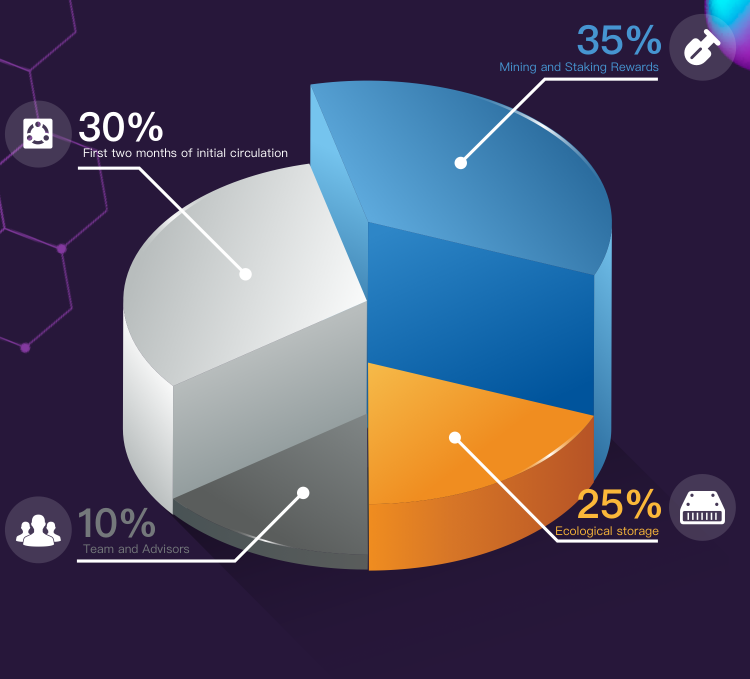
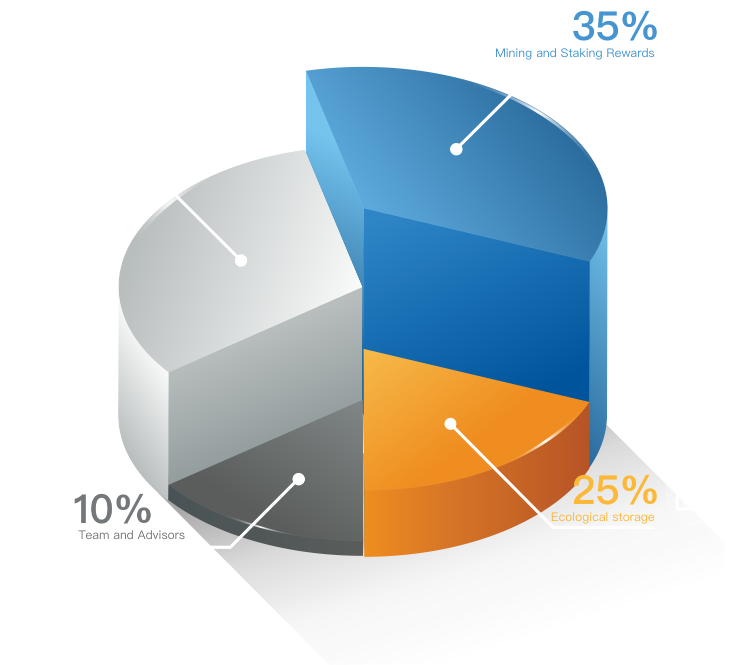
提交

diff --git a/src/view/Home.vue b/src/view/Home.vue
@@ -8,8 +8,8 @@
               <div class="title">Artificial Intelligence for <br>Cryptocurrencies</div>
               <div class="subTitle">FUTURE TECHNOLOGY</div>
               <div class="text">
-                zkGPT is an artificial intelligence encryption analysis robot based on cryptocurrency. It will first play a role by understanding the user's situation, and tailor the investment portfolio for 
-                the user through risk preferences and investment goals, providing users with the ultimate experience.
+                zkGPT is an artificial intelligence encryption analysis robot based on cryptocurrency. It will first play a role by understanding the user's situation, and tailor the investment portfolio for the user through risk 
+                preferences and investment goals, providing users with the ultimate experience.
               </div>
               <div class="FriendlyLinks">
                   <a href="">
@@ -28,8 +28,8 @@
           </div>
           <div class="secondScreen">
               <div class="title" style="margin-bottom: 20px;">
-                  ZKGPT is a revolutionary product <br>
-                  and technology
+                  ZKGPT is a revolutionary <br>
+                  product and technology
               </div>
               <div class="text">
                   ·Personalized experience<br/>
@@ -43,28 +43,31 @@
               Distribute
           </div>
           <div class="CenterSubTitle">
-              XX allocation model
+            CRB allocation model
           </div>
           <div class="CenterText">
-              The initial circulating supply of XX (accounting for 30% of the overall token supply) is fully distributed to the community through the seed pool in the first 6 days, achieving 100% of the initial
-               circulating supply. After 6 days, there will be no release of XX for at least 2 months, and no other form of token sale.
+            The initial circulating supply of XX (accounting for 30% of the overall token supply) is fully distributed to the community through the seed pool in the first 6 days, achieving 100% of the initial circulating supply. After 6 days, 
+            there will be no release of CRB for at least 2 months, and no other form of token sale.
+          </div>
+          <div class="CenterSubTitle pieSubTitle">
+            The specific distribution of CRB
           </div>
           <div class="pie">
              <img src="../assets/Home/Pie.png" alt="">
           </div>
           <div class="CenterSubTitle">
-              YY allocation model
+            CZZ allocation model
           </div>
           <div class="CenterText">
-              As a governance token, YY is mainly obtained through liquidity mining.
-              100% of the total supply (18,000 coins) will be distributed through liquidity mining within three months. Liquidity mining reward: 18000 (100% of total supply)
+            As a governance token, CZZ is mainly obtained through liquidity mining.
+            100% of the total supply (18,000 coins) will be distributed through liquidity mining within three months. Liquidity mining reward: 18000 (100% of total supply)
           </div>
           <div class="Disclaimer">
             Disclaimer
           </div>
           <div class="DisclaimerText">
-            This document is for general information purposes only. It does not constitute investment advice, recommendation or inducement to buy or sell any investment object.
-         It should not be used to evaluate any investment decisions, nor should it be construed as accounting, legal, tax or other investment advice.
+            This document is for general information purposes only. It does not constitute investment advice, recommendation or inducement to buy or sell any investment object. 
+            It should not be used to evaluate any investment decisions, nor should it be construed as accounting, legal, tax or other investment advice.
           </div>
         </div>
     </div>
@@ -77,7 +80,7 @@
 .Home{
     background: url('../assets/Home/bg.png') 0 0 / 100% no-repeat;
     min-height: 100vh;
-    padding-top: 12.7rem;
+    padding-top: 18.7rem;
     overflow: hidden;
     .firstScreen{
         margin: 0 5rem;
@@ -120,7 +123,7 @@
             }
             @media (max-width:425px) {
                 margin-top:1.2rem;
-                max-width: 50rem;
+                max-width: 60rem;
             }
         }
         .FriendlyLinks{
@@ -128,6 +131,9 @@
             flex-direction: column;
             margin-top: 2.8rem;
             float: right;
+            @media (max-width:425px) {
+                display: none;
+            }
             a{
                 margin-bottom: 1.25rem;
                 font-size: 0;
@@ -184,12 +190,21 @@
         line-height: 1;
         color: #FFFFFF;
         text-align: center;
+        @media (max-width:425px) {
+            font-size: 28px;
+        }
+    }
+    .pieSubTitle{
+        margin: 40px auto !important;
     }
     .pie{
         max-width: 90%;
         margin: auto;
+        display: flex;
+        justify-content: center;
         img{
-            width: 100%;
+            width: 750px;
+            max-width: 100%;
         }
     }
     .CenterSubTitle{
@@ -199,26 +214,31 @@
         text-transform: uppercase;
         color: #FFFFFF;
         text-align: center;
+        @media (max-width:425px) {
+            font-size: 16px;
+        }
     }
     .CenterText{
-        margin-top: 1.65rem;
         font-size: 0.7rem;
         line-height: 1.2;
         text-align: center;
         color: #FFFFFF;
         text-align: center;
         max-width: 474px;
-        margin: auto;
+        margin: 1.65rem auto 0;
         @media (max-width:425px) {
             margin: 5rem;
         }
     }
     .Disclaimer{
-        font-size: 20px;
+        font-size: 3.7rem;
         line-height: 1.25;
         color: #FFFFFF;
         text-align: center;
         margin-top: 12.65rem;
+        @media (max-width:425px) {
+            font-size: 28px;
+        }
     }
     .DisclaimerText{
         font-size: 14px;

diff --git a/src/Layout/Layout.vue b/src/Layout/Layout.vue
@@ -1,15 +1,115 @@
 <script setup>
+import { computed ,onMounted} from 'vue'
+import { useStore } from 'vuex'
+import { AddrHandle } from '../utils/tool'
+import {useRouter,useRoute} from 'vue-router'
 import Header from '../components/Header.vue';
+import HomeActiveIcon from '../assets/Home/HomeActiveIcon.png'
+import HomeIcon from '../assets/Home/HomeIcon.png'
+import StakeActiveIcon from '../assets/Home/StakeActiveIcon.png'
+import StakeIcon from '../assets/Home/StakeIcon.png'
+import Rewards from '../assets/Home/Rewards.png'
+import RewardsActive from '../assets/Home/RewardsActive.png'
+const store = useStore()
+const router = useRouter()
+const route = useRoute()
+let leftMenu = computed(()=>{
+  return store.state.leftMenu
+})
+let address = computed(()=>{
+  return store.state.address
+})
+const goPath=(path)=>{
+  router.push(path)
+  closeMenuSwitch()
+}
+const closeMenuSwitch = ()=>{
+  store.commit('SETLEFTMENU',false)
+}
+const Connect=()=>{
+  if(!address.value){
+    connect((address)=>{
+      store.commit('SETADDRESS',address)
+    })
+  }
+}
 </script>
 
 <template>
   <Header></Header>
   <router-view></router-view>
+  <el-drawer v-model="leftMenu"  @close="closeMenuSwitch" :size="176" :with-header="false">
+    <div class="leftMenuTop">
+      <div class="drawerLogo">
+        <img src="../assets/Home/logo.png" alt="">
+      </div>
+      <div class="MenuItem" @click="goPath('/')">
+          <img :src="route.path === '/' ? HomeActiveIcon:HomeIcon" alt="">
+          <span>HOME</span>
+      </div>
+      <div class="MenuItem" @click="goPath('/Stake')">
+          <img :src="route.path === '/Stake' ? StakeActiveIcon:StakeIcon" alt="">
+          <span>STAKE</span>
+      </div>
+      <div class="MenuItem" @click="goPath('/Rewares')">
+          <img :src="route.path === '/Rewares' ? RewardsActive:Rewards" alt="">
+          <span>REWARDS</span>
+      </div>
+    </div>
+    <div class="connect" @click="Connect">
+      <div class="content" :class="['content',{Connected:!!address}]">
+        {{ address ?  AddrHandle(address):'Connect wallet'}}
+      </div>
+    </div>
+  </el-drawer>
 </template>
 
-<style scoped >
+<style lang="scss">
 .Home{
     background: url('../assets/Home/bg.png') 0 0 / 100% no-repeat;
     min-height: 100vh;
+}
+.drawerLogo{
+  text-align: center;
+  margin-bottom: 38px;
+  img{
+    width: 51px;
+  }
+}
+.MenuItem{
+  display: flex;
+  align-items: center;
+  margin-bottom: 30px;
+  span{
+    margin-left: 12px;
+    color: #FFFFFF;
+    font-weight: 500;
+  }
+}
+.connect{
+  width: 100%;
+  height: 37px;
+  background: linear-gradient(90deg, #536DFE 0%, #B41FFF 100%);
+  border-radius: 11px;
+  font-size: 0.9rem;
+  line-height: 1rem;
+  .content{
+    display: flex;
+    justify-content: center;
+    align-items: center;
+    border-radius: 0.55rem;
+    width: 100%;
+    height: 100%;
+    color: #FFFFFF;
+  }
+}
+.el-drawer__body{
+  width: 176px;
+  padding: 33px 24px;
+  box-sizing: border-box;
+  background: #27173A;
+  display: flex;
+  flex-direction: column;
+  justify-content: space-between;
 }
 </style>

diff --git a/src/components/Header.vue b/src/components/Header.vue
@@ -9,6 +9,7 @@ import HomeIcon from '../assets/Home/HomeIcon.png'
 import StakeActiveIcon from '../assets/Home/StakeActiveIcon.png'
 import StakeIcon from '../assets/Home/StakeIcon.png'
 import Rewards from '../assets/Home/Rewards.png'
+import RewardsActive from '../assets/Home/RewardsActive.png'
 const router = useRouter()
 const route = useRoute()
 const store = useStore()
@@ -24,6 +25,9 @@ const Connect=()=>{
       store.commit('SETADDRESS',address)
     })
   }
+}
+const leftMenuSwitch = ()=>{
+  store.commit('SETLEFTMENU',!store.state.leftMenu)
 }
 onMounted(()=>{
   console.log(route.path)
@@ -44,7 +48,7 @@ onMounted(()=>{
           <span>STAKE</span>
         </div>
         <div class="menuItem" @click="goPath('/Rewares')">
-          <img :src="route.path === '/Rewares' ? Rewards:Rewards" alt="">
+          <img :src="route.path === '/Rewares' ? RewardsActive:Rewards" alt="">
           <span>REWARDS</span>
         </div>
       </div>
@@ -54,17 +58,7 @@ onMounted(()=>{
         {{ address ?  AddrHandle(address):'Connect wallet'}}
       </div>
     </div>
-    <el-dropdown trigger="click">
-      <img src="../assets/Home/menu.png" alt="">
-      <template #dropdown>
-        <el-dropdown-menu>
-          <el-dropdown-item @click="goPath('/')">HOME</el-dropdown-item>
-          <el-dropdown-item @click="goPath('/Stake')">STAKE</el-dropdown-item>
-          <el-dropdown-item @click="goPath('/Rewares')">REWARDS</el-dropdown-item>
-        </el-dropdown-menu>
-      </template>
-    </el-dropdown>
-    
+    <img class="MenuIcon" @click="leftMenuSwitch" src="../assets/Home/menu.png" alt="">
   </div>
 </template>
 
@@ -99,9 +93,9 @@ onMounted(()=>{
       
       font-size: 0.9rem;
       line-height: 1rem;
-      color: #FFFFFF;
       padding: 1px;
       .content{
+        color: #FFFFFF;
         display: flex;
         justify-content: center;
         align-items: center;
@@ -123,6 +117,13 @@ onMounted(()=>{
       width: 4.75rem;
       @media (max-width:425px) {
         width: 6rem;
+      }
+    }
+    .MenuIcon{
+      display: none;
+      @media (max-width:425px) {
+        width: 6rem;
+        display: block;
       }
     }
     .menu{

diff --git a/src/view/Rewares.vue b/src/view/Rewares.vue
@@ -10,11 +10,11 @@
             <div class="InfoRow">
                 <div class="addr">
                     <span>{{AddrHandle('0x3Bd8CA9023897224b01fE25b33137b67A89ec70F',7,7)}}</span>
-                    <img src="../assets/Home/StakeIcon.png" alt="">
+                    <img src="../assets/Home/copy.png" alt="">
                 </div>
                 <div class="link">
                     <span>http://sadfs.dadsf.com/sdadsf</span>
-                    <img src="../assets/Home/StakeIcon.png" alt="">
+                    <img src="../assets/Home/copy.png" alt="">
                 </div>
             </div>
         </div>

diff --git a/src/store/index.js b/src/store/index.js
@@ -4,12 +4,16 @@ import { createStore } from 'vuex'
 export const store = createStore({
   state () {
     return {
-      address: ''
+      address: '',
+      leftMenu: false
     }
   },
   mutations: {
     SETADDRESS (state,address) {
       state.address = address
-    }
+    },
+    SETLEFTMENU (state,leftMenu){
+      state.leftMenu = leftMenu
+    },
   }
 })

diff --git a/src/assets/style/Rewares.scss b/src/assets/style/Rewares.scss
@@ -80,6 +80,7 @@
                     text-overflow: ellipsis; //溢出显示省略号
                 }
                 img{
+                    width: 16px;
                     margin-left: 1rem;
                 }
             }
